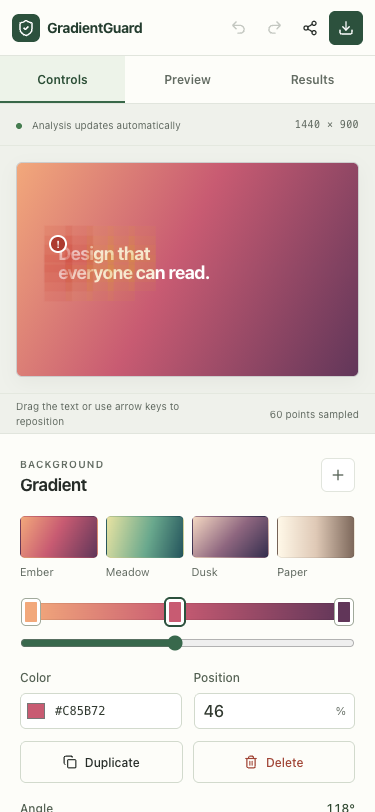
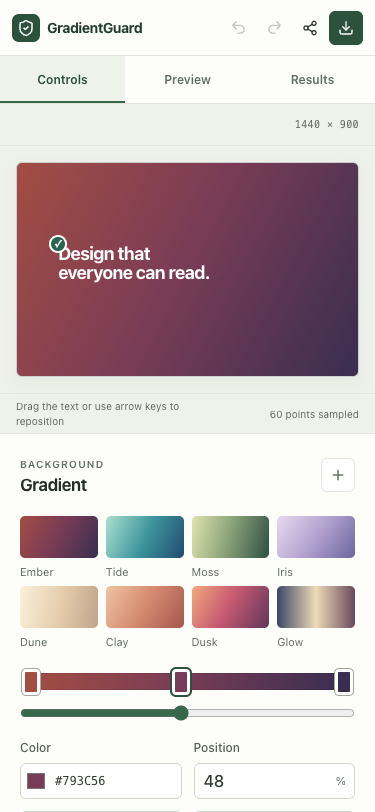
Curate eight gradient presets with a readable Ember default

diff --git a/src/core/presets.ts b/src/core/presets.ts
@@ -1,0 +1,44 @@
+import type { ColorStop } from './types'
+
+export const presets: Array<{ name: string; stops: ColorStop[]; angle: number }> = [
+  { name: 'Ember', angle: 118, stops: [
+    { id: 'ember-1', color: '#A34D43', position: 0 },
+    { id: 'ember-2', color: '#793C56', position: 48 },
+    { id: 'ember-3', color: '#392E50', position: 100 },
+  ] },
+  { name: 'Tide', angle: 115, stops: [
+    { id: 'tide-1', color: '#A9E0D0', position: 0 },
+    { id: 'tide-2', color: '#3C939B', position: 52 },
+    { id: 'tide-3', color: '#224C70', position: 100 },
+  ] },
+  { name: 'Moss', angle: 105, stops: [
+    { id: 'moss-1', color: '#E0E3AF', position: 0 },
+    { id: 'moss-2', color: '#8FA77C', position: 45 },
+    { id: 'moss-3', color: '#304F43', position: 100 },
+  ] },
+  { name: 'Iris', angle: 125, stops: [
+    { id: 'iris-1', color: '#E7D9EF', position: 0 },
+    { id: 'iris-2', color: '#B3A2D0', position: 50 },
+    { id: 'iris-3', color: '#6B679D', position: 100 },
+  ] },
+  { name: 'Dune', angle: 100, stops: [
+    { id: 'dune-1', color: '#FAF0D9', position: 0 },
+    { id: 'dune-2', color: '#E5CEAC', position: 50 },
+    { id: 'dune-3', color: '#C1A38B', position: 100 },
+  ] },
+  { name: 'Clay', angle: 120, stops: [
+    { id: 'clay-1', color: '#F0C3A3', position: 0 },
+    { id: 'clay-2', color: '#D58C70', position: 48 },
+    { id: 'clay-3', color: '#A6574F', position: 100 },
+  ] },
+  { name: 'Dusk', angle: 118, stops: [
+    { id: 'dusk-1', color: '#F2A87B', position: 0 },
+    { id: 'dusk-2', color: '#C85B72', position: 46 },
+    { id: 'dusk-3', color: '#613659', position: 100 },
+  ] },
+  { name: 'Glow', angle: 90, stops: [
+    { id: 'glow-1', color: '#3E4666', position: 0 },
+    { id: 'glow-2', color: '#EEDBB7', position: 50 },
+    { id: 'glow-3', color: '#68485C', position: 100 },
+  ] },
+]

diff --git a/src/components/GradientControls.tsx b/src/components/GradientControls.tsx
@@ -3,13 +3,7 @@ import { useRef } from 'react'
 import { gradientCss } from '../core/gradient'
 import { normalizeHex } from '../core/color'
 import type { EditorState } from '../core/types'
-
-export const presets: Array<{ name: string; stops: EditorState['stops']; angle: number }> = [
-  { name: 'Ember', angle: 118, stops: [{ id: 'ember-1', color: '#F2A87B', position: 0 }, { id: 'ember-2', color: '#C85B72', position: 46 }, { id: 'ember-3', color: '#613659', position: 100 }] },
-  { name: 'Meadow', angle: 105, stops: [{ id: 'meadow-1', color: '#E8E3A2', position: 0 }, { id: 'meadow-2', color: '#69A88D', position: 55 }, { id: 'meadow-3', color: '#24545C', position: 100 }] },
-  { name: 'Dusk', angle: 132, stops: [{ id: 'dusk-1', color: '#F4D8C2', position: 0 }, { id: 'dusk-2', color: '#8E667F', position: 52 }, { id: 'dusk-3', color: '#342E4E', position: 100 }] },
-  { name: 'Paper', angle: 90, stops: [{ id: 'paper-1', color: '#FFF8E8', position: 0 }, { id: 'paper-2', color: '#DFC9B6', position: 50 }, { id: 'paper-3', color: '#7D685B', position: 100 }] },
-]
+import { presets } from '../core/presets'
 
 interface Props {
   state: EditorState

diff --git a/tests/editor.spec.ts b/tests/editor.spec.ts
@@ -2,6 +2,7 @@ import { expect, test } from '@playwright/test'
 
 test('color stops drag on the rail and support precise keyboard movement', async ({ page }) => {
   await page.goto('/')
+  await page.getByRole('button', { name: 'Use Dusk preset' }).click()
   const handle = page.getByRole('slider', { name: 'Color stop 2 position' })
   const box = (await handle.boundingBox())!
   const rail = (await page.locator('.gradient-rail').boundingBox())!
@@ -50,6 +51,7 @@ test('mobile editing keeps the canvas visible and resamples after resizing', asy
   await page.goto('/')
   await page.getByRole('tab', { name: 'controls' }).click()
   await expect(page.getByTestId('preview-frame')).toBeVisible()
+  await page.getByRole('button', { name: 'Use Dune preset' }).click()
   await page.getByRole('textbox', { name: 'Content', exact: true }).fill('Readable everywhere')
   await expect(page.getByTestId('preview-text')).toHaveText('Readable everywhere')
   await page.getByRole('tab', { name: 'results' }).click()

diff --git a/src/core/core.test.ts b/src/core/core.test.ts
@@ -4,6 +4,15 @@ import { interpolateGradient } from './gradient'
 import { minimumScrimOpacity } from './scrim'
 import { decodeState, encodeState } from './share-state'
 import { initialEditorState } from '../state/editor-state'
+import { presets } from './presets'
+
+it('opens on the first preset with readable white text throughout the gradient', () => {
+  expect(initialEditorState.stops).toEqual(presets[0].stops)
+  expect(initialEditorState.angle).toBe(presets[0].angle)
+  for (let position = 0; position <= 100; position += 1) {
+    expect(contrastRatio(initialEditorState.textColor, interpolateGradient(presets[0].stops, position))).toBeGreaterThanOrEqual(4.5)
+  }
+})
 
 describe('WCAG contrast math', () => {
   it('calculates known relative luminance values', () => {

diff --git a/src/state/editor-state.ts b/src/state/editor-state.ts
@@ -1,13 +1,10 @@
 import { decodeState } from '../core/share-state'
 import type { EditorState } from '../core/types'
+import { presets } from '../core/presets'
 
 export const initialEditorState: EditorState = {
-  stops: [
-    { id: 'peach', color: '#F2A87B', position: 0 },
-    { id: 'rose', color: '#C85B72', position: 46 },
-    { id: 'plum', color: '#613659', position: 100 },
-  ],
-  selectedStopId: 'rose', angle: 118, text: 'Design that everyone can read.',
+  stops: presets[0].stops,
+  selectedStopId: presets[0].stops[1].id, angle: presets[0].angle, text: 'Design that everyone can read.',
   fontSize: 52, fontWeight: 700, textColor: '#FFFFFF', textAlign: 'left',
   textX: 12, textY: 38, previewSize: 'desktop', scrimColor: null, scrimOpacity: 0, heatmap: true,
 }

diff --git a/src/components/Heatmap.tsx b/src/components/Heatmap.tsx
@@ -4,6 +4,6 @@ export function Heatmap({ result, visible }: { result: ContrastResult; visible: 
   if (!visible) return null
   return <div className="heatmap" aria-hidden="true">
     {result.samples.map((sample, index) => <span key={index} className={sample.ratio < result.threshold ? 'unsafe' : sample.ratio < result.threshold + 0.75 ? 'near' : 'safe'} style={{ left: `${sample.x}%`, top: `${sample.y}%` }} />)}
-    <i className="worst-marker" style={{ left: `${result.worst.x}%`, top: `${result.worst.y}%` }}><b>!</b></i>
+    <i className={`worst-marker ${result.passes ? 'passing' : ''}`} style={{ left: `${result.worst.x}%`, top: `${result.worst.y}%` }}><b>{result.passes ? '✓' : '!'}</b></i>
   </div>
 }

diff --git a/src/styles.css b/src/styles.css
@@ -101,6 +101,7 @@ textarea { padding: 11px; line-height: 1.6; resize: vertical; font-weight: 400; 
 .heatmap .near { background: #da9b2814; }
 .heatmap .safe { background: transparent; }
 .worst-marker { position: absolute; transform: translate(-50%, -50%); width: 18px; height: 18px; border: 2px solid white; border-radius: 50%; display: grid; place-items: center; background: #ad3b30; color: white; font: 700 10px Inter, sans-serif; }
+.worst-marker.passing { background: var(--green); }
 
 .status-banner { display: flex; align-items: center; gap: 10px; padding: 13px 11px; border-radius: 6px; }
 .status-banner.pass { color: #285b3c; background: var(--green-soft); border: 1px solid #d1e3d4; }
